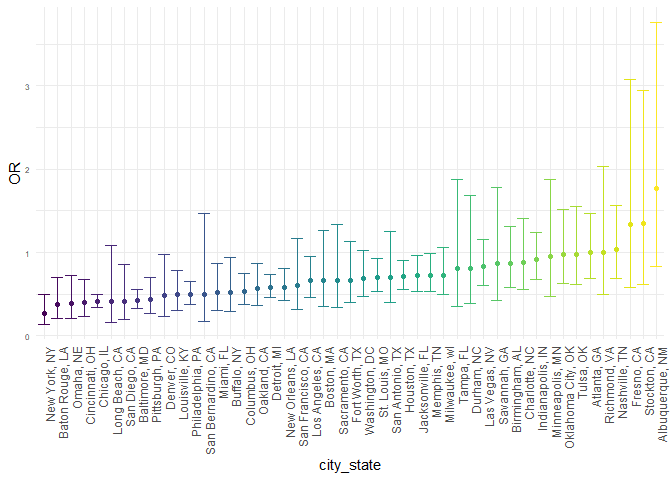
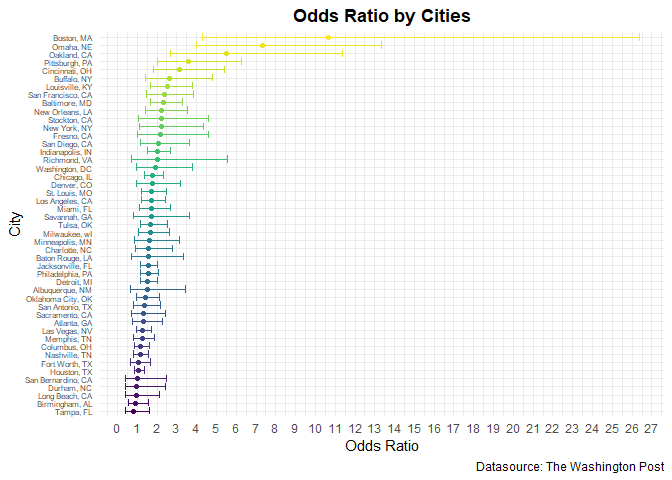
2nd - modified problem 1

diff --git a/p8105_hw6_kl3069.md b/p8105_hw6_kl3069.md
@@ -19,7 +19,7 @@ homicide_df =
       disposition == "Open/No arrest"        ~ 0,
       disposition == "Closed by arrest"      ~ 1
   )) %>% 
-  filter(city_state != "Tulsa, AL",
+  filter(!(city_state %in% c("Dallas, TX", "Phoenix, AZ", "Kansas City, MO", "Tulsa, AL")),
          victim_race %in% c("White", "Black")) %>% 
   select(city_state, resolution, victim_age, victim_race, victim_sex)
 ```
@@ -38,22 +38,177 @@ glm(resolution ~ victim_age + victim_race + victim_sex,
     CI_upper = exp(estimate + 1.96*std.error)
   ) %>% 
   select(term, OR, starts_with("CI")) %>% 
-  knitr::kable(digits = 3)
+  knitr::kable(digits = 3,
+               format = "html",
+               caption = "Table: Estimate and confidence interval of the adjusted odds ratio")
 ```
 
-| term              |    OR | CI\_lower | CI\_upper |
-| :---------------- | ----: | --------: | --------: |
-| (Intercept)       | 1.363 |     0.975 |     1.907 |
-| victim\_age       | 0.993 |     0.987 |     1.000 |
-| victim\_raceWhite | 2.320 |     1.648 |     3.268 |
-| victim\_sexMale   | 0.426 |     0.325 |     0.558 |
+<table>
+
+<caption>
+
+Table: Estimate and confidence interval of the adjusted odds ratio
+
+</caption>
+
+<thead>
+
+<tr>
+
+<th style="text-align:left;">
+
+term
+
+</th>
+
+<th style="text-align:right;">
+
+OR
+
+</th>
+
+<th style="text-align:right;">
+
+CI\_lower
+
+</th>
+
+<th style="text-align:right;">
+
+CI\_upper
+
+</th>
+
+</tr>
+
+</thead>
+
+<tbody>
+
+<tr>
+
+<td style="text-align:left;">
+
+(Intercept)
+
+</td>
+
+<td style="text-align:right;">
+
+1.363
+
+</td>
+
+<td style="text-align:right;">
+
+0.975
+
+</td>
+
+<td style="text-align:right;">
+
+1.907
+
+</td>
+
+</tr>
+
+<tr>
+
+<td style="text-align:left;">
+
+victim\_age
+
+</td>
+
+<td style="text-align:right;">
+
+0.993
+
+</td>
+
+<td style="text-align:right;">
+
+0.987
+
+</td>
+
+<td style="text-align:right;">
+
+1.000
+
+</td>
+
+</tr>
+
+<tr>
+
+<td style="text-align:left;">
+
+victim\_raceWhite
+
+</td>
+
+<td style="text-align:right;">
+
+2.320
+
+</td>
+
+<td style="text-align:right;">
+
+1.648
+
+</td>
+
+<td style="text-align:right;">
+
+3.268
+
+</td>
+
+</tr>
+
+<tr>
+
+<td style="text-align:left;">
+
+victim\_sexMale
+
+</td>
+
+<td style="text-align:right;">
+
+0.426
+
+</td>
+
+<td style="text-align:right;">
+
+0.325
+
+</td>
+
+<td style="text-align:right;">
+
+0.558
+
+</td>
+
+</tr>
+
+</tbody>
+
+</table>
 
 ``` r
 models_results_df = 
   homicide_df %>% 
     nest(data = -city_state) %>% 
     mutate(
-      models = map(.x = data, ~glm(resolution ~ victim_age + victim_race + victim_sex, data = .x, family =   binomial())),
+      models = map(.x = data, ~glm(resolution ~ victim_age + victim_race + victim_sex,
+                                   data = .x,
+                                   family = binomial())),
       results = map(models, broom::tidy)
     ) %>% 
     select(city_state, results) %>% 
@@ -68,13 +223,29 @@ models_results_df =
 
 ``` r
 models_results_df %>% 
-  filter(term == "victim_sexMale") %>% 
+  filter(term == "victim_raceWhite") %>% 
   mutate(city_state = fct_reorder(city_state, OR)) %>% 
   ggplot(aes(x = city_state, y = OR, color = city_state))+
   geom_point()+
   geom_errorbar(aes(ymin = CI_lower, ymax = CI_upper))+
-  theme(axis.text.x = element_text(angle = 90, hjust = 1)) +
-  theme(axis.text.y = element_text(size = 6), legend.position = "none") 
+  theme(axis.text.y = element_text(size = 6), legend.position = "none") +
+  labs(
+    title = "Odds Ratio by Cities",
+    x = "City",
+    y = "Odds Ratio",
+    caption = "Datasource: The Washington Post",
+    color = "") +
+  theme(plot.title = element_text(face="bold",
+                                  hjust=0.5,
+                                  lineheight=1.2)) +
+  scale_y_continuous(breaks = seq(0, 30, by = 1)) +
+  coord_flip()
 ```
 
 <img src="p8105_hw6_kl3069_files/figure-gfm/unnamed-chunk-4-1.png" width="100%" />
+
+  - **Comment on the plot**: The above plot illustrates that for most
+    cities the estimates for odds ratio are above 1.0. Such result
+    indicates that more homicides are likely to be solved for white
+    compared to non-whites. We can observe that this is more apparent in
+    cities such as Boston, Omaha, Oakland, and Pittsburgh.
